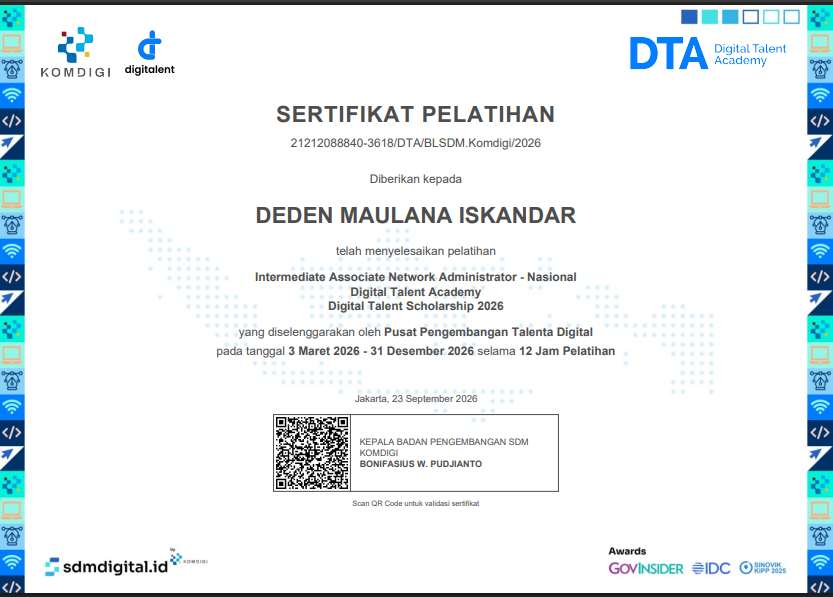
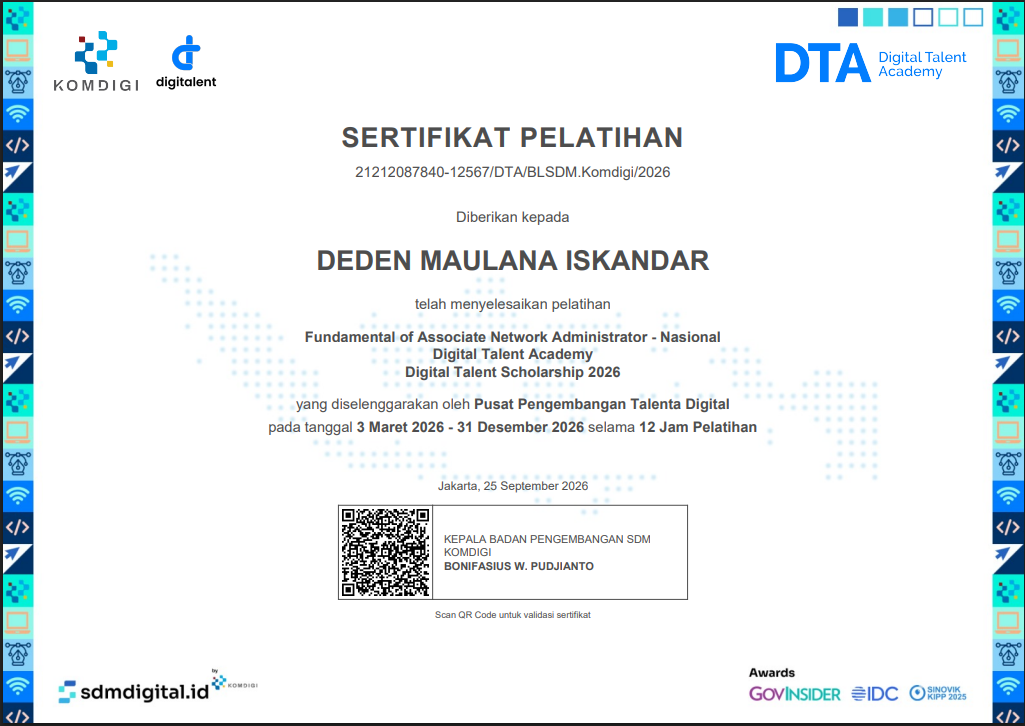
menambahkan sertifikat

diff --git a/index.html b/index.html
@@ -856,7 +856,7 @@
               </div>
               <div class="cert-card__body">
                 <span class="cert-card__type">Pelatihan</span>
-                <h3 class="cert-card__title">Intermediate Associate Network Administrator</h3>
+                <h3 class="cert-card__title">Fundamental of Associate Network Administrator</h3>
                 <p class="cert-card__desc">Sertifikat penyelesaian pelatihan mandiri IT Network.</p>
                 <p class="cert-card__year">2026</p>
                 <button
@@ -870,6 +870,32 @@
               </div>
             </div>
           
+                        <!-- 7. IT Network Bootcamp -->
+            <div class="cert-card" data-animate="fade-up">
+              <div class="cert-card__preview" aria-hidden="true">
+                <img
+                  src="assets/certificates/network2.png"
+                  alt="IT Network Bootcamp Certificate"
+                  class="cert-card__img"
+                  loading="lazy"
+                />
+              </div>
+              <div class="cert-card__body">
+                <span class="cert-card__type">Pelatihan</span>
+                <h3 class="cert-card__title">Intermediate Associate Network Administrator</h3>
+                <p class="cert-card__desc">Sertifikat penyelesaian pelatihan mandiri IT Network.</p>
+                <p class="cert-card__year">2026</p>
+                <button
+                  class="btn btn--sm btn--primary cert-view-btn"
+                  data-cert-src="assets/certificates/network2.png"
+                  data-cert-title="IT Network Bootcamp"
+                  aria-label="Lihat IT Network Bootcamp Certificate"
+                >
+                  View Certificate
+                </button>
+              </div>
+            </div>
+
           </div>
         </div>
       </section>
